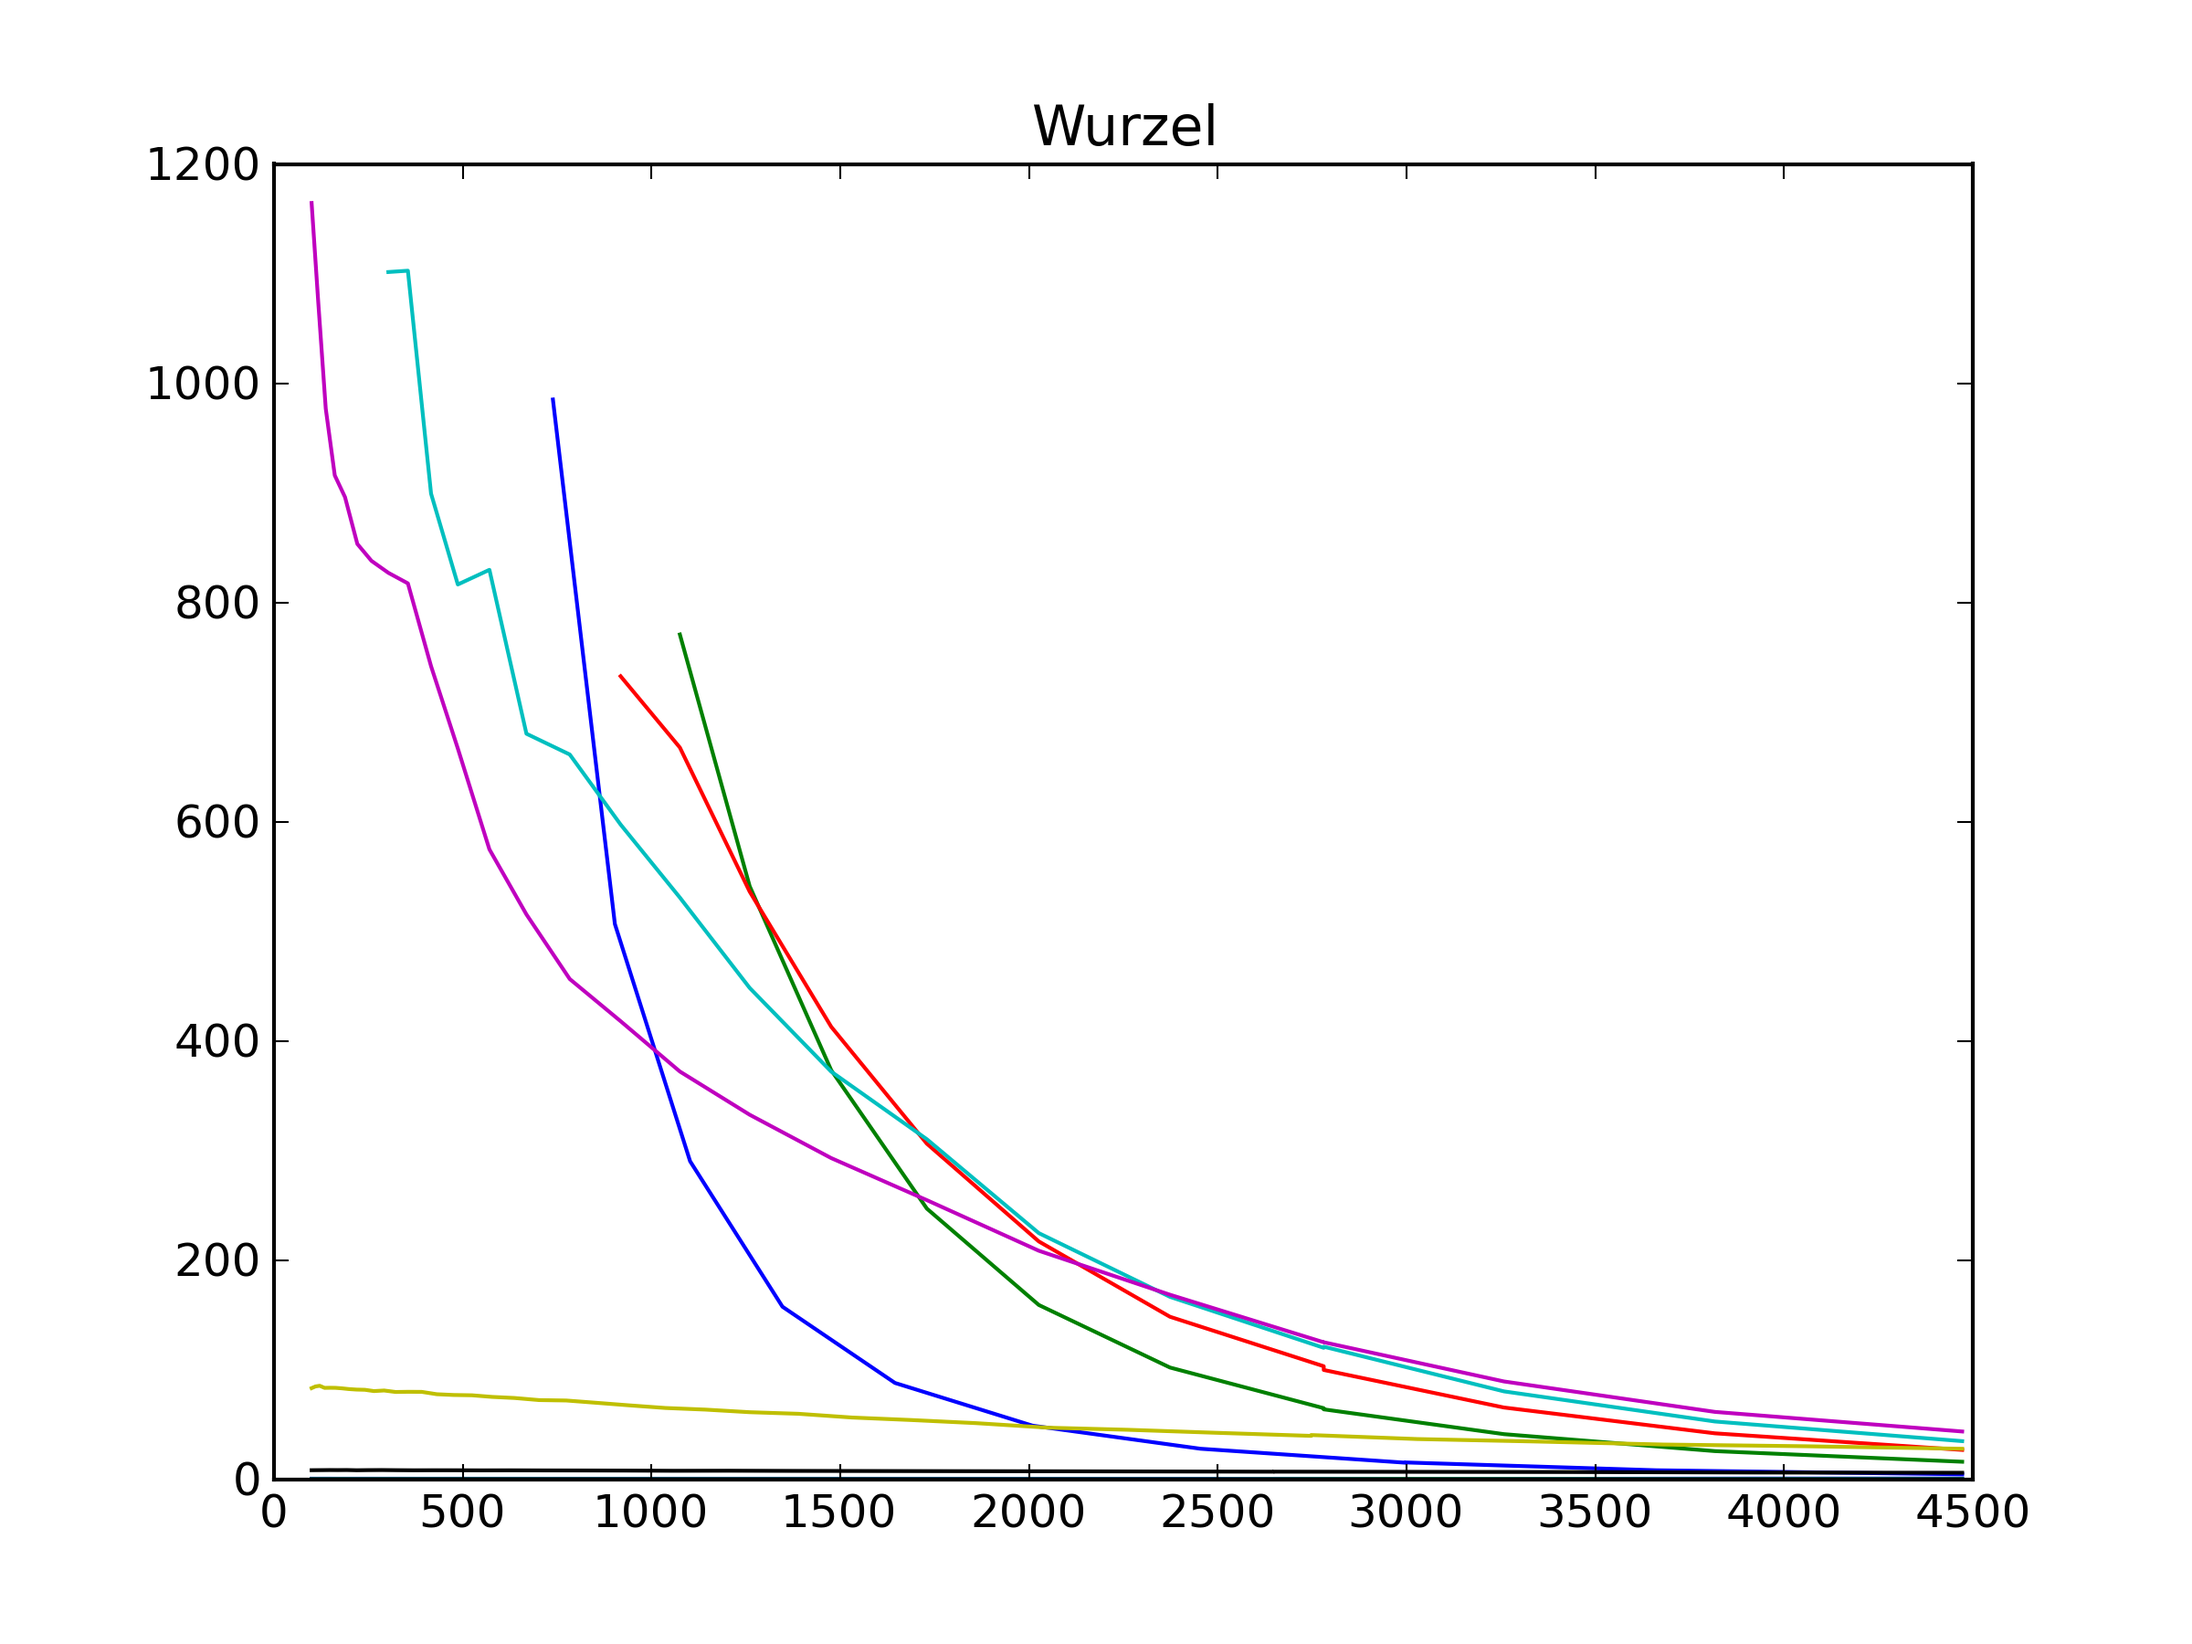
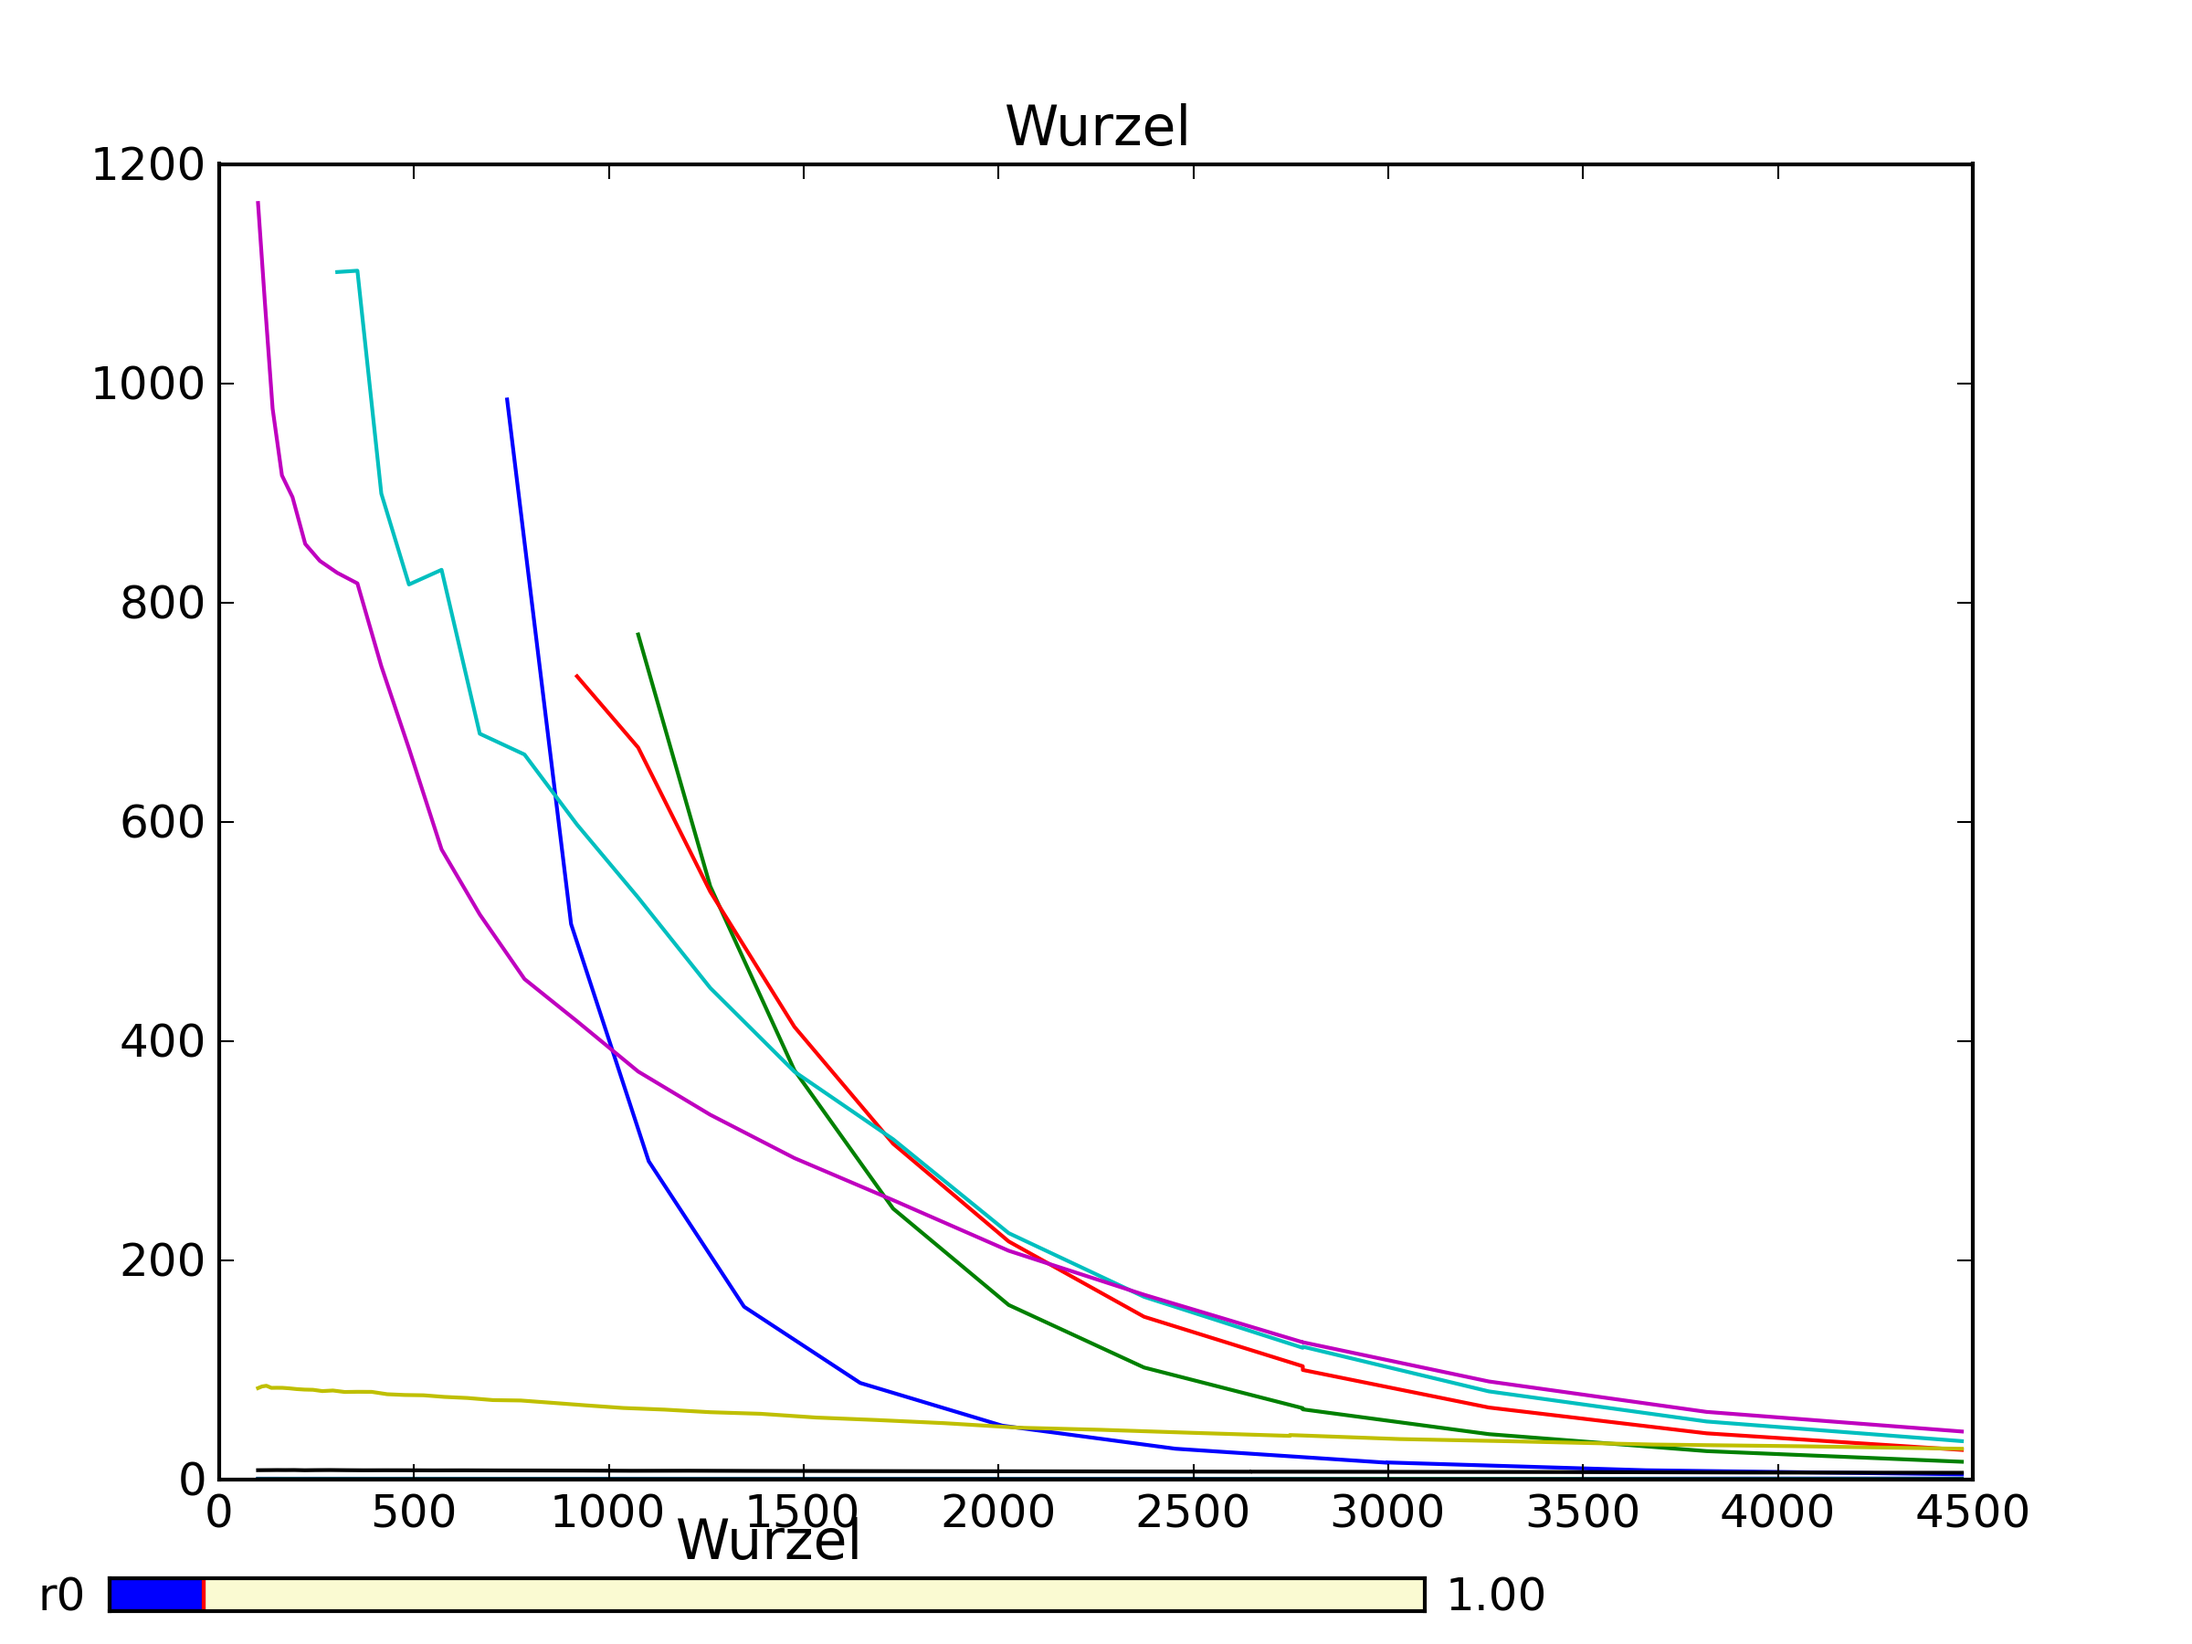
jetzt gibts die verschiebefaktoren dazu, sind allerdings noch verkehrtrum

diff --git a/interaktiv-susz.py b/interaktiv-susz.py
@@ -23,13 +23,30 @@ sef=glob.glob('*K.sef')
 sef.sort()
 sdf=glob.glob('*K.sdf')
 sdf.sort()
+verschiebefaktoren=[]
+verschiebetemperaturen=[]
+for i in range(0,sef.__len__()): 
+	verschiebetemperaturen.append(0)
+	verschiebefaktoren.append(0)
 ###
 ### funktionen definieren
 ###
+
+##die spektraldichte J und die Suszibilitaet Chi
 def J(omega,tau_c,beta):
 	return tau_c/(1. + omega **2 * tau_c **2)**beta
 def Chi(omega,tau_c,beta,K_DD):
 	return K_DD*omega*J(omega,tau_c,beta)
+##die auswertefunktion fuer die Diffusion und die rate. mal sehen...
+def Diffusion(x):
+	return x
+def R_1(omega,R1_0,D):
+	mu_0 =1.2566e-6
+	h_quer = 6.626e-34/2/np.pi
+	N=N_mTCP=21*6.022e-23*1.15*100**3/368.4
+	B=np.pi/30*(1+4*(2**0.5))*(mu_0/4/np.pi * h_quer * gamma_H **2)**2 * N
+	return R1_0-B/(D**1.5) *omega**0.5
+##die verschiebefunktion fuer die suszibilitaet
 def update(val):
 	fin=open(sef[int(picker.val)],'r')
 	sefdata=fin.readlines()
@@ -37,6 +54,7 @@ def update(val):
 	ch=[]
 	br=[]
 	ra1=[]
+	zone=[]
 	rf=[]
 	for data in sefdata: 
 		liste=data.split()
@@ -45,19 +63,56 @@ def update(val):
 		br=map(float,br)
 		ra1.append(liste[2])
 		ra1=map(float,ra1)
+		zone.append(liste[5])
+		zone=map(int,zone)
 		rf.append(liste[6])
 	slide=10.0**val
+	print slide
 	for i,b in enumerate(br): 
-		br[i]=br[i]*10e6
+		br[i]=br[i]*1e6
 		ch.append(ra1[i]*br[i])
 		br[i]=br[i]*slide
-	ax.lines[int(picker.val)].set_xdata(br)
+	#for line in ax.lines: print line
+	ax.lines[int(picker.val)*2+1].set_xdata(br)
 	plt.draw()
+	verschiebefaktoren[int(picker.val)]=slide
+	verschiebetemperaturen[int(picker.val)]=temps[int(picker.val)]
+	print verschiebefaktoren
+	print verschiebetemperaturen
+	plt.figure(4)
+	plt.cla()
+	plt.plot(verschiebefaktoren,verschiebetemperaturen)
+	plt.draw()
+	return slide
+#	fin=open(sef[int(picker.val)],'r')
+#	sefdata=fin.readlines()
+#	for i in range(0,4):sefdata.pop(0)
+#	ch=[]
+#	br=[]
+#	ra1=[]
+#	rf=[]
+#	for data in sefdata: 
+#		liste=data.split()
+#	#	liste = re.findall(r"[\w.][\f]+",data)
+#		br.append(liste[0])
+#		br=map(float,br)
+#		ra1.append(liste[2])
+#		ra1=map(float,ra1)
+#		rf.append(liste[6])
+#	slide=10.0**val
+#	for i,b in enumerate(br): 
+#		br[i]=br[i]*10e6
+#		ch.append(ra1[i]*br[i])
+#		br[i]=br[i]*slide
+#	ax.lines[int(picker.val)].set_xdata(br)
+#	plt.draw()
+## den pick gibts nur anstandshalber
 def pick(val):
 	return val
 def reset(event):
 	stau_c.reset()
 
+plt.figure(1)
 ax = plt.axes([0.1,0.2,0.55,0.7])
 plt.xscale('log')
 plt.yscale('log')
@@ -72,11 +127,26 @@ picker=Slider(axpicker,'pick set',0,sef.__len__()-0.01,valinit=0)
 resetax =plt.axes([0.8,0.025,0.1,0.04])
 button = Button(resetax,'reset',color=axcolor,hovercolor='0.975')
 
-stau_c.on_changed(update)
+plt.figure(2)
+wurzelax=plt.axes([0.1,0.1,0.8,0.8])
+axr0=plt.axes([0.05,0.02,0.6,0.02],axisbg=axcolor)
+sr0=Slider(axr0,'r0',0.3,10,valinit=1.0)
+
+plt.figure(3)
+##wird spaeter bemalt
+
+plt.figure(4)
+fakchiax=plt.axes([0.15,0.15,0.8,0.8])
+plt.title('verschiebefaktoren in der suszeptiblitaet')
+plt.xlabel('T')
+plt.ylabel('schiebefaktoren a.u.')
+
 picker.on_changed(pick)
 button.on_clicked(reset)
+stau_c.on_changed(update)
 
 sefdata=[]
+temps=[]
 for filename in sef:
 	fin=open(filename,'r')
 	sefdata=fin.readlines()
@@ -105,17 +175,32 @@ for filename in sef:
 		zone.append(liste[5])
 		zone=map(int,zone)
 		relativefile.append(liste[6])
+	fin2=open(relativefile[0],'r')
+	sdfdata=fin2.readlines()
+	temp=sdfdata[sdfdata.index('ZONE=\t'+str(zone[5])+'\r\n')+7]
+	temp=temp[6:]
+	temp=temp.rstrip()
+	temps.append(float(temp))
+	#print repr(temp)
+	print fin2
+	print zone
+
 	for i,b in enumerate(brlx):
 		brlx[i]=brlx[i]*1e6
 		chi.append(r1[i]*brlx[i])
 	plt.figure(1)
+	plt.title(relativefile[0][0:-9])
 	plt.axes([0.1,0.2,0.55,0.7])
-	plt.plot(brlx,map(lambda x:Chi(x,1e-6,0.7,1e8),brlx))
-	#fitpars, covmat = curve_fit(Chi,brlx,chi,p0=[1e-6,0.7,1e8])
-	#print fitpars
-	plt.plot(brlx,chi,label=relativefile[0])
+	#plt.plot(brlx,map(lambda x:Chi(x,1e-6,0.7,1e8),brlx))
+	brlx=np.array(brlx)
+	chi=np.array(chi)
+	fitpars, covmat = curve_fit(Chi,brlx,chi,p0=[1e-6,0.7,1e10],maxfev=10000)
+	print fitpars
+	plt.plot(brlx,map(lambda x:Chi(x,fitpars[0],fitpars[1],fitpars[2]),brlx),label='Chi '+temp+' K')
+	plt.plot(brlx,chi,label=temp+' K',marker='o',linestyle='None')
 	plt.figure(2)
 	plt.title('Wurzel')
+	wurzelax=plt.axes([0.1,0.1,0.8,0.8])
 	for i, b in enumerate(brlx):
 		brlx[i]=brlx[i]**0.5
 	plt.plot(brlx,r1,label=relativefile[0])
@@ -126,7 +211,8 @@ for filename in sef:
 	for i,b in enumerate(brlx):
 		brlx[i]=brlx[i]**2 #wir hatten die wurzel gezogen
 	plt.plot(brlx,r1,label=relativefile[0])
-	
+print temps	
+plt.figure(2)
 
 plt.figure(1)
 plt.plot(omega, Chi(omega,1e-6,0.7,1e8),label='chi mit tau_c =1')
@@ -137,6 +223,7 @@ plt.savefig('wurzel',dpi=300,orientation='landscape')
 plt.figure(3)
 plt.savefig('rate',dpi=300,orientation='landscape')
 plt.show()
+
 
 #set1ax=plt.axes([0.7,0.025,0.1,0.04])
 #set1 = Button(set1ax,'set1 relativefile?? somehow',color=axcolor) 
